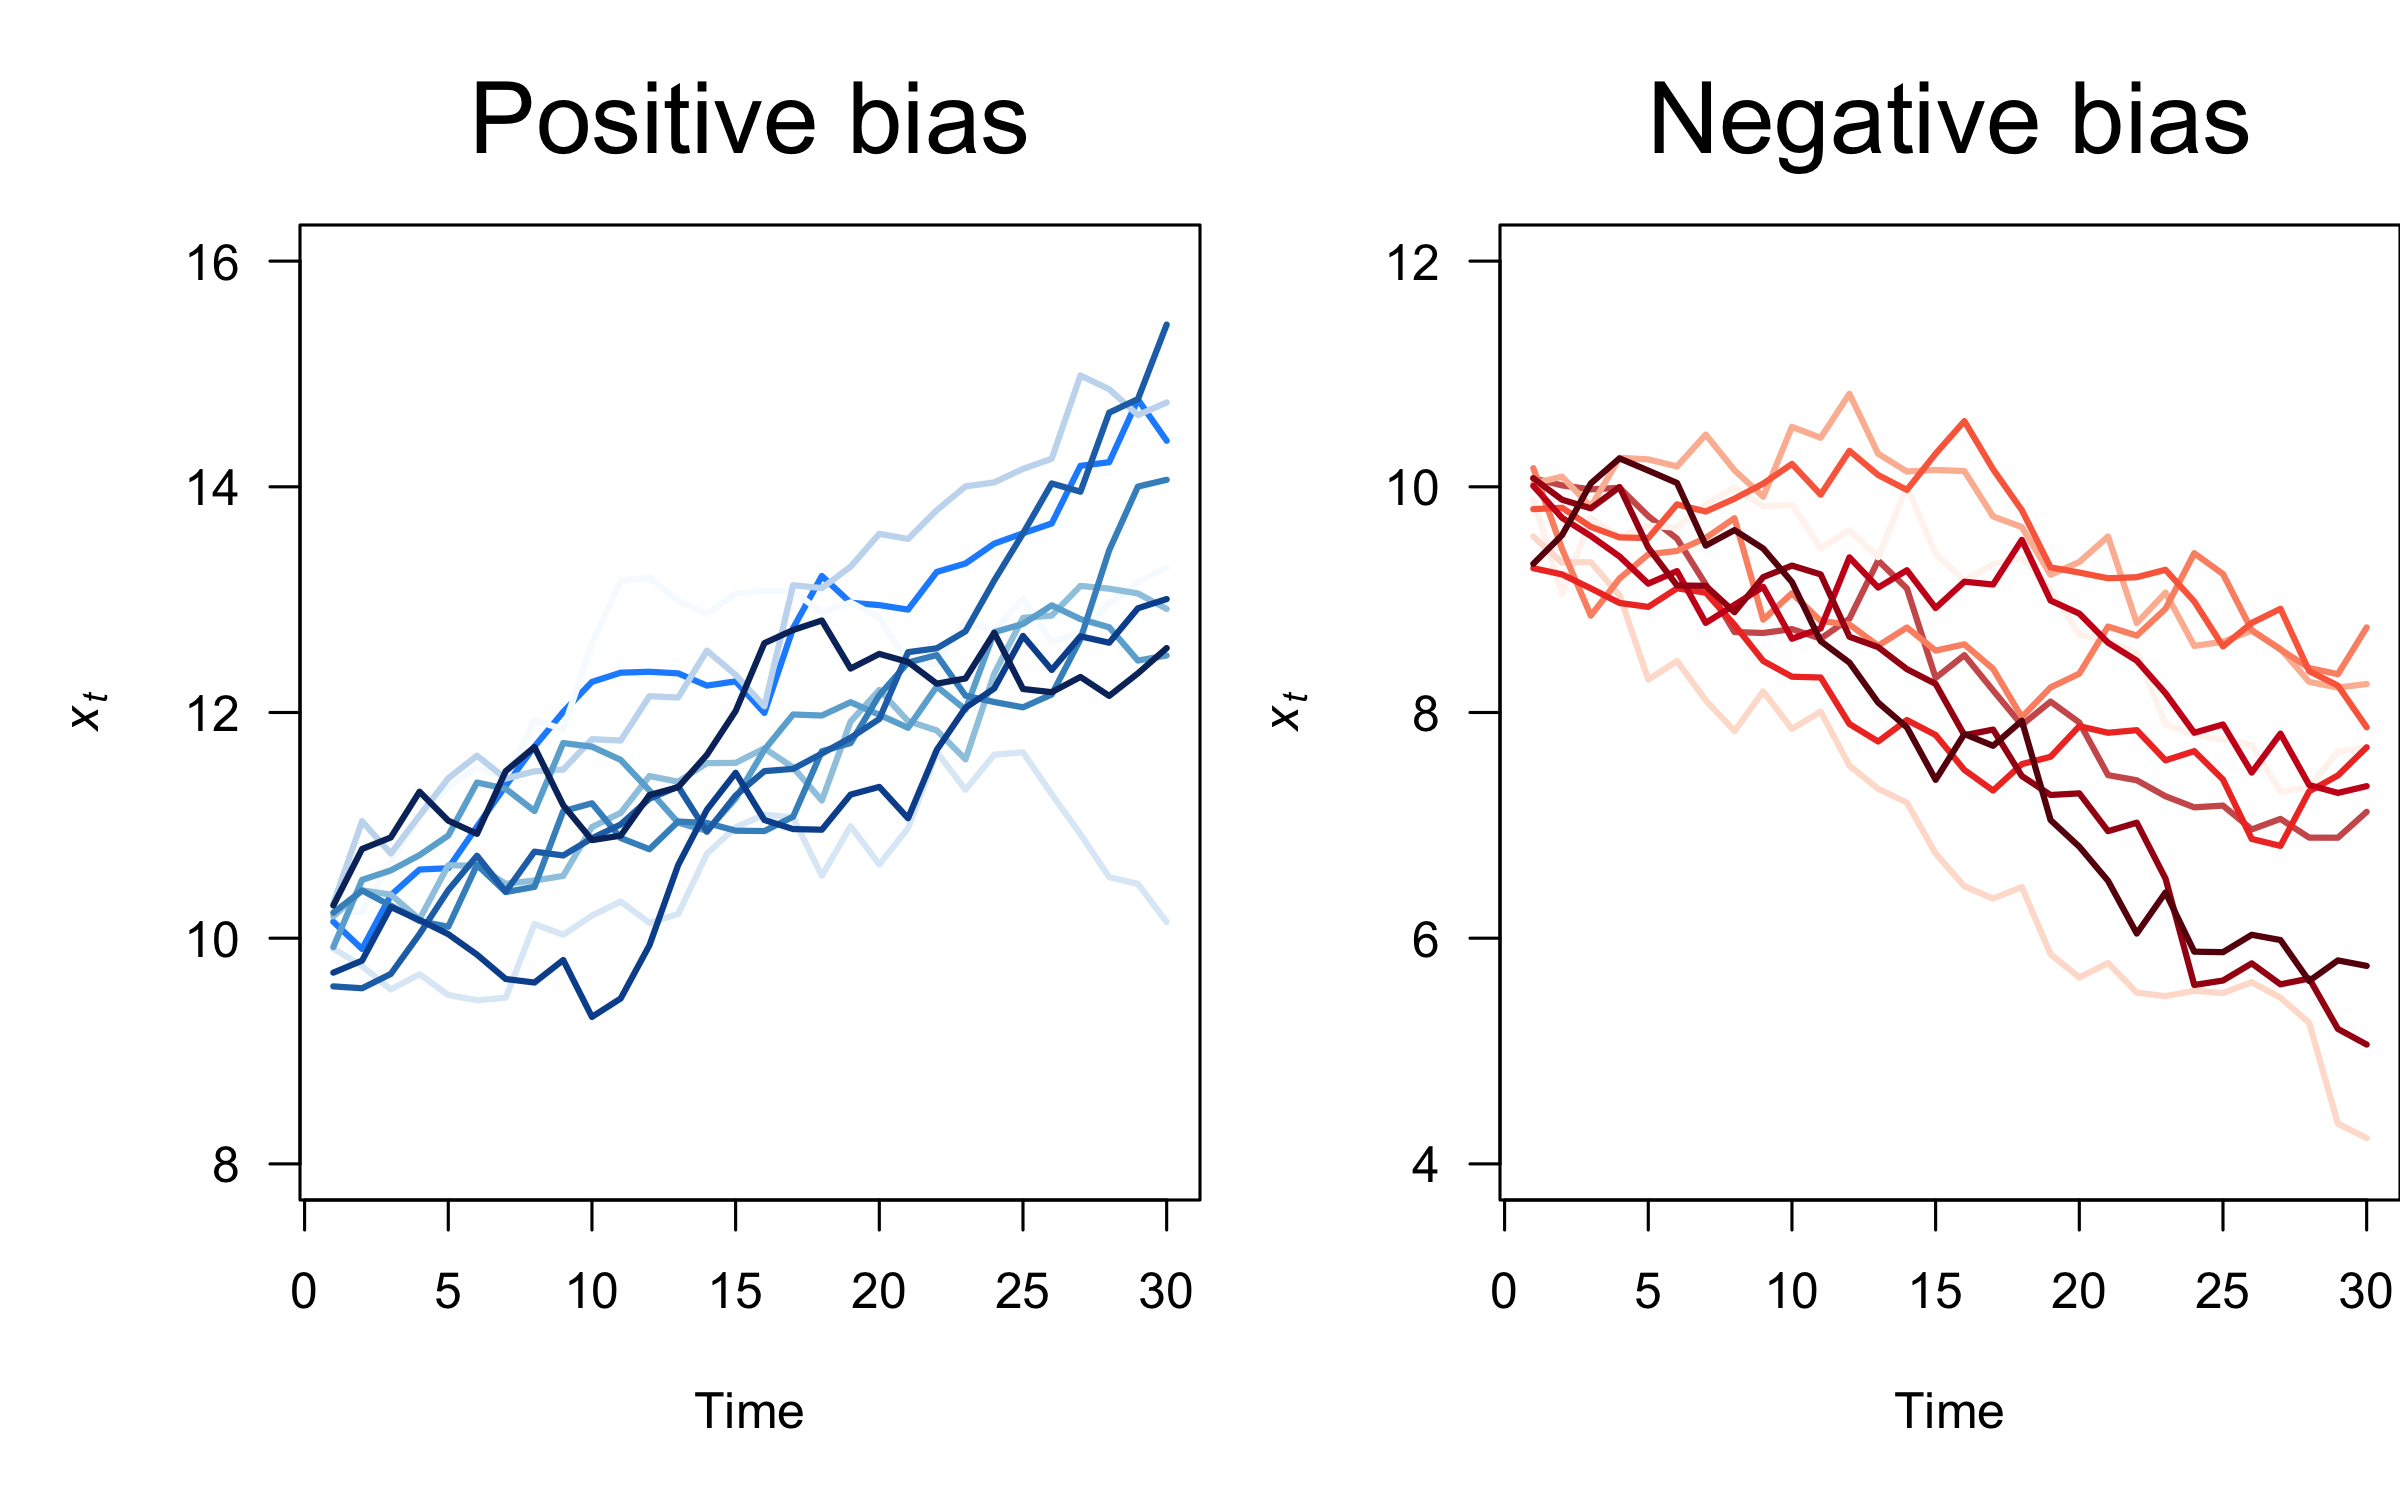
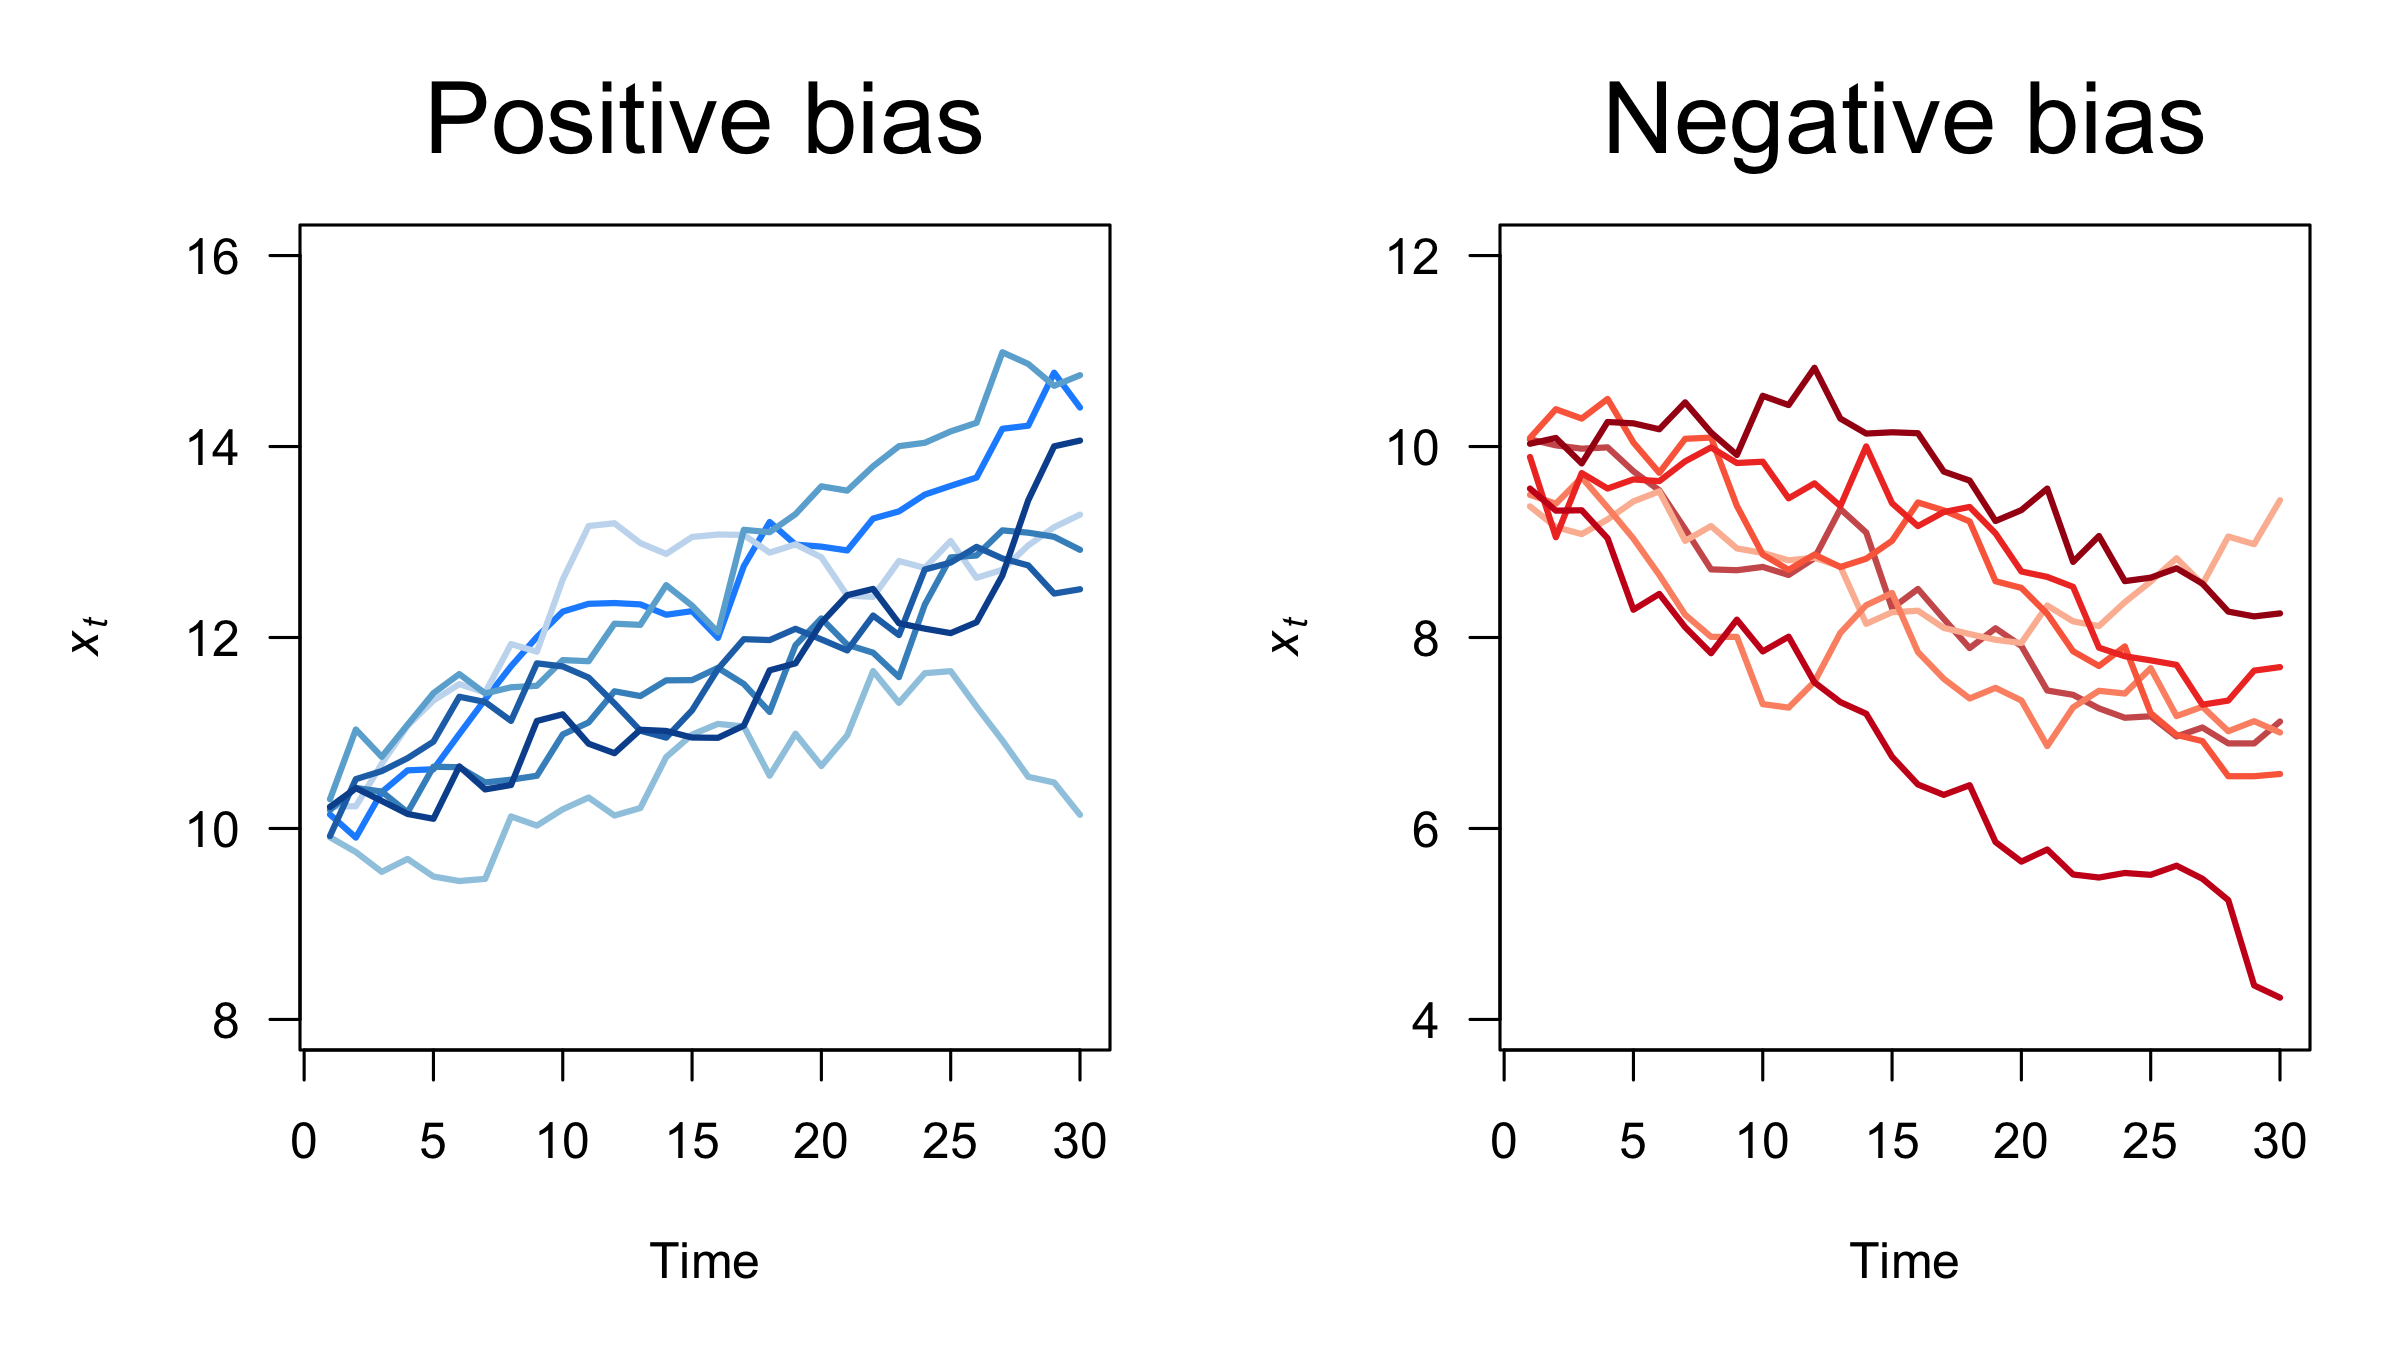
updated RW examples

diff --git a/presentations/scheuerell_UWFWS_2023.html b/presentations/scheuerell_UWFWS_2023.html
@@ -403,16 +403,27 @@ class: inverse, center, middle
 
 `$$w_t \sim \text{N}(0, q)$$`
 
+
+---
+
+# Biased random walk
+
+### .blue-text[If we assume that the errors are white noise]
+
+`$$w_t \sim \text{N}(0, q)$$`
+
 ### .blue-text[ then our model of populations dynamics]
 
 `$$x_t = x_{t-1} + u + w_t$$`
 
-### .blue-text[is a] *biased random walk*
+### .blue-text[is known as a] *biased random walk*
 
 
 ---
 
 # Examples of biased random walks
+
+`$$x_t = x_{t-1} + \text{bias} \pm \text{error}$$`
 
 &lt;img src="scheuerell_UWFWS_2023_files/figure-html/ex_biased_rw-1.png" width="100%" height="100%" style="display: block; margin: auto;" /&gt;
 
@@ -435,7 +446,7 @@ class: inverse, center, middle
 
 ---
 
-# Example: biased RW's with observation error
+# Ex: biased random walk with obs error
 
 &lt;img src="scheuerell_UWFWS_2023_files/figure-html/ex_biased_rw_y-1.png" width="100%" height="100%" style="display: block; margin: auto;" /&gt;
 
@@ -493,7 +504,7 @@ class: center
 
 # Observation model for multiple time series
 
-### .blue-text[ Example with 5 popns (1-5) from 2 core areas (A &amp; B) ]
+### .center.blue-text[ Example of 5 popns (1-5) from 2 core areas (A &amp; B) ]
 
 `$$\begin{gathered}
     y_{1,t} = x_{A} + v_{1,t} \\
